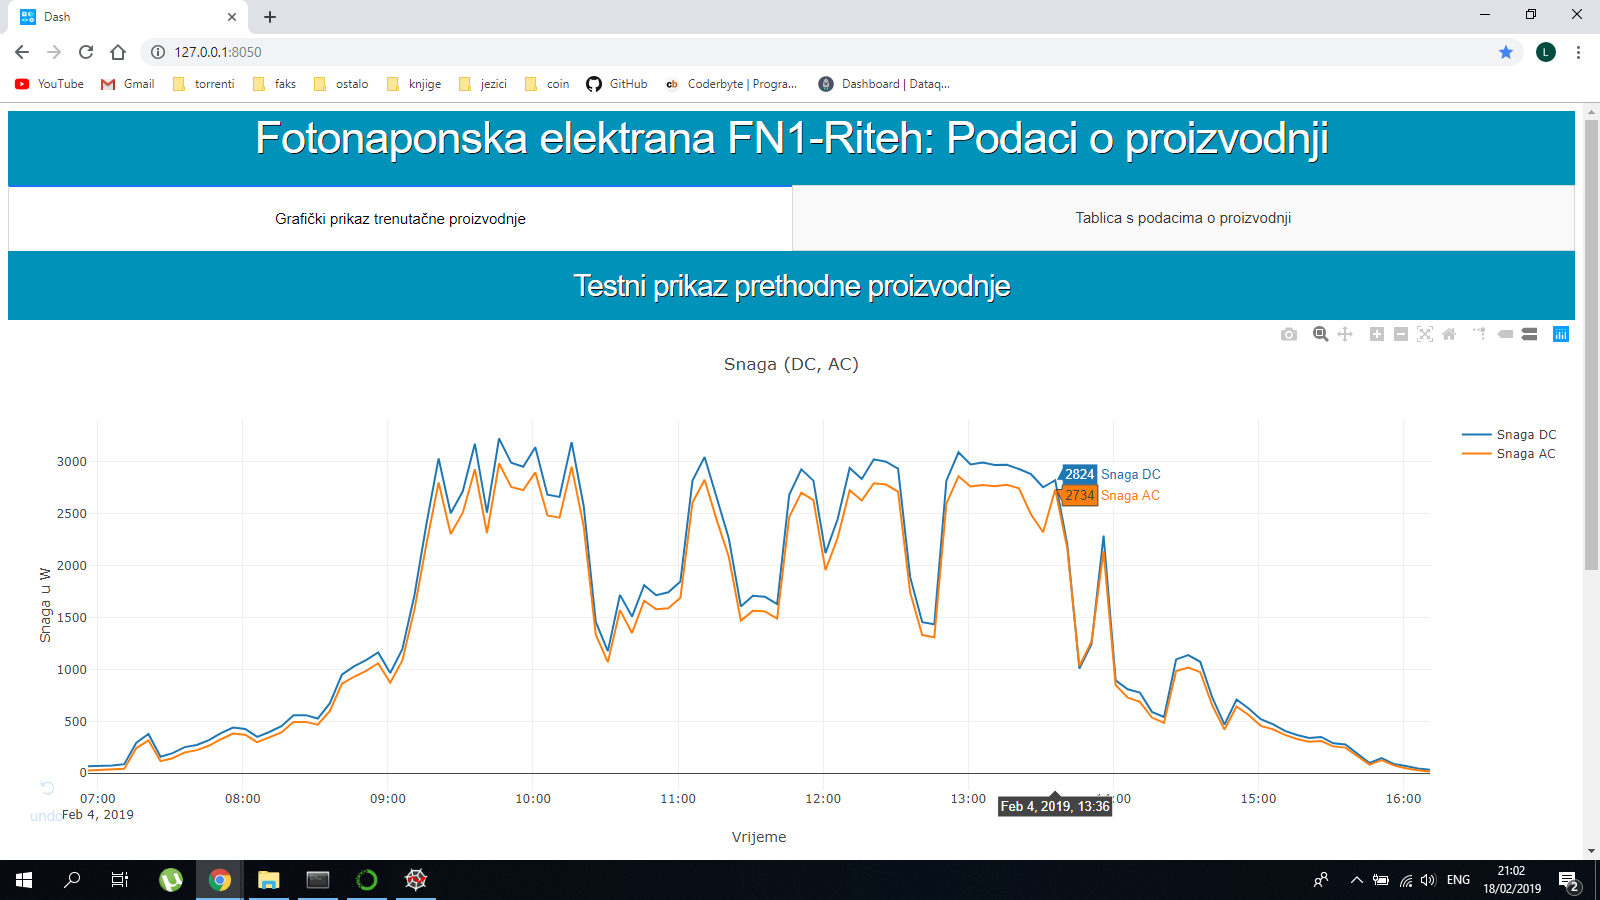
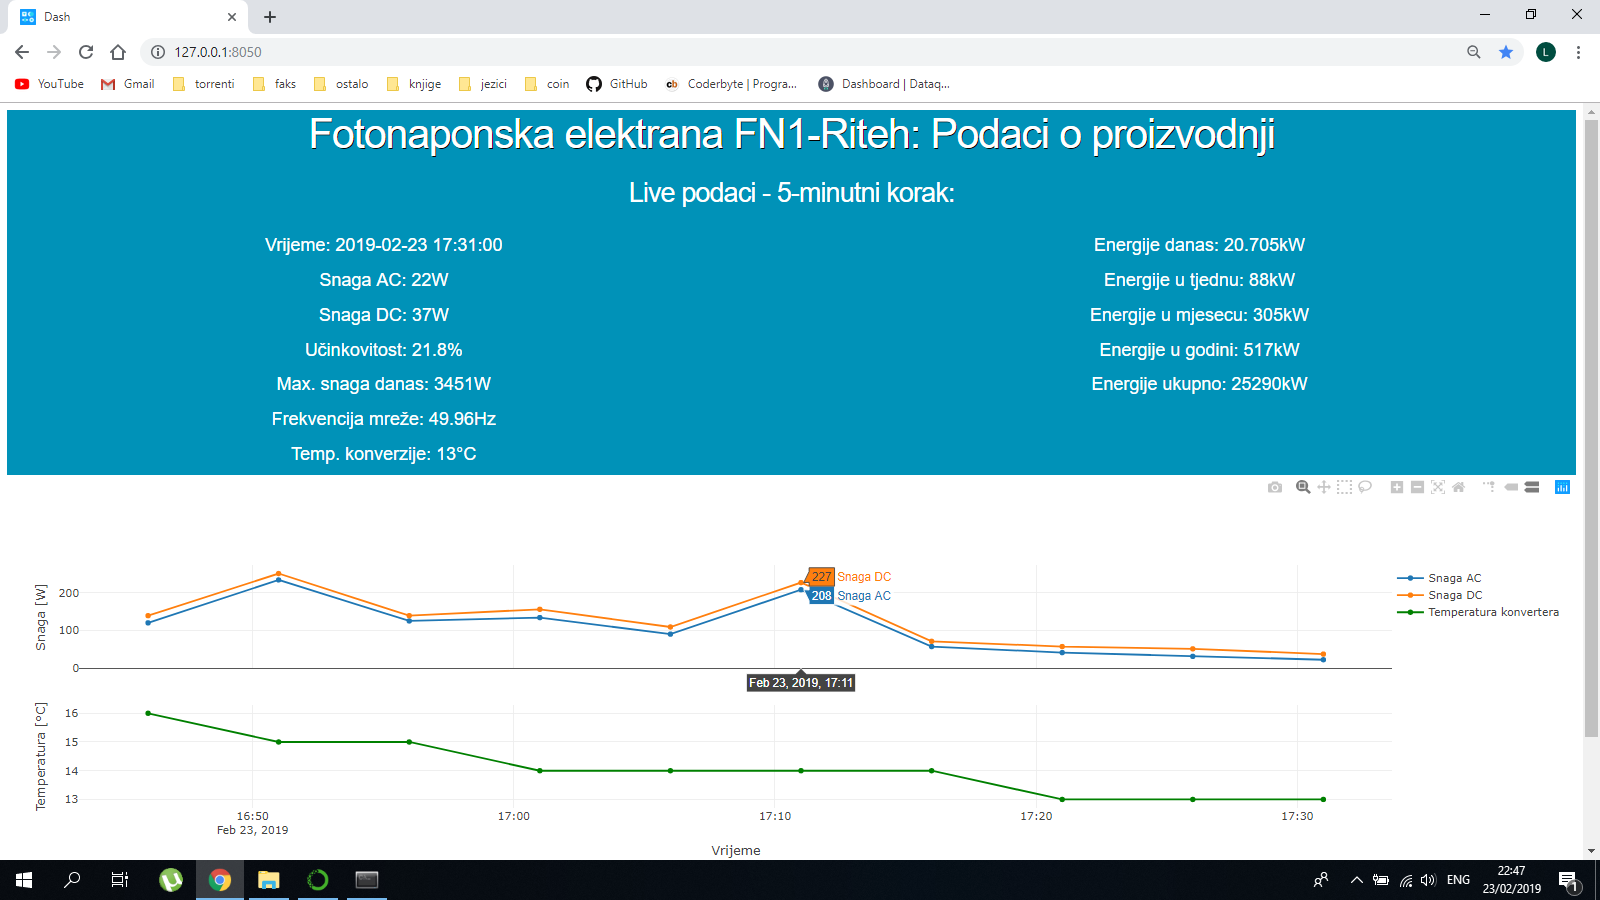
Working (but still in development) version of the app.

diff --git a/app_v1.py b/app_v1.py
@@ -7,6 +7,8 @@ import plotly.graph_objs as go
 import plotly
 import pandas as pd
 import pymysql as mysql
+import time
+from datetime import datetime as dt
 
 external_stylesheets = ['https://codepen.io/chriddyp/pen/bWLwgP.css']
 
@@ -17,26 +19,36 @@ app.layout = html.Div([
                               style={'color': 'rgb(255,255,255)',
                                      'text-align': 'center',
                                      'text-shadow':'1px 1px #000000'}),
+                      html.Div(id='live-update-text'),
+                      dcc.Graph(id='live-update-graph'),
                       dcc.Tabs(id="my-tabs", value='tab-1-example', children=[
                                                                               dcc.Tab(label='Grafički prikaz prethodne proizvodnje', value='tab-1'),
                                                                               dcc.Tab(label='Tablica s podacima o proizvodnji (u doradi)', value='tab-2')
                                                                              ]),
-                      html.Div(id='live-update-text'),
-                      dcc.Graph(id='live-update-graph'),
-                      html.Div(id='tabs-content'), 
+                      dcc.DatePickerRange(
+                                          id='my-date-picker-range',
+                                          min_date_allowed=dt(2019, 1, 1),
+                                          max_date_allowed=dt.now(),
+                                          initial_visible_month=dt(2019, 1, 2),
+                                          start_date='',
+                                          end_date=''
+                                         ),
+                      html.Div(id='tabs-content'),
                       dcc.Interval(id='my-interval', 
-                                   interval=5*1000, 
-                                   n_intervals=0)], style={'background':'rgb(0,146,184)'}
-                      )
-
-conn =  mysql.connect(host='localhost', user='root', password='lozinka', db='riteh1')
-query = "SELECT * FROM elektrana"
-df = pd.read_sql(query, conn)
+                                   interval=300*1000, 
+                                   n_intervals=0)
+                      ], style={'background':'rgb(0,146,184)'})
 
 @app.callback(Output('live-update-text', 'children'),
               [Input('my-interval', 'n_intervals')])
 def update_text(n):
+    t1 = time.time()
+    conn =  mysql.connect(host='localhost', user='root', password='lozinka', db='riteh1')
+    query = "SELECT * FROM elektrana"
+    df = pd.read_sql(query, conn)
     style={'color':'rgb(255,255,255)', 'text-align':'center'}
+    t2 = time.time()
+    print('Vremena za update teksta: {}'.format(t2-t1))
     return html.Div([html.H3('Live podaci - 5-minutni korak:', style=style),
                     html.Div([
                              html.Div([
@@ -59,21 +71,28 @@ def update_text(n):
 @app.callback(Output('live-update-graph', 'figure'),
               [Input('my-interval', 'n_intervals')])
 def update_graph(n):
+    t1 = time.time()
+    conn =  mysql.connect(host='localhost', user='root', password='lozinka', db='riteh1')
+    query = "SELECT * FROM elektrana"
+    df = pd.read_sql(query, conn)
     data = {'Vrijeme':[],
             'Snaga_AC':[],
             'Snaga_DC':[],
-            'Ucinkovitost':[]}
-    for i in range(50):
+            'Temp_kon':[]}
+    for i in range(10):
         vrijeme = df.iloc[-(1+i),0]
         snaga_ac = df.iloc[-(1+i),2]
         snaga_dc = df.iloc[-(1+i),1]
-        ucin = df.iloc[-(1+i),3]
+        ucin = df.iloc[-(1+i),6]
         data['Vrijeme'].append(vrijeme)
         data['Snaga_AC'].append(snaga_ac)
         data['Snaga_DC'].append(snaga_dc)
-        data['Ucinkovitost'].append(ucin)
+        data['Temp_kon'].append(ucin)
     fig = plotly.tools.make_subplots(rows=2, cols=1, shared_xaxes=True)
     fig['layout']['legend'] = {'x': 1, 'y': 1, 'xanchor': 'left'}
+    fig['layout']['xaxis1'].update(title='Vrijeme')
+    fig['layout']['yaxis1'].update(title='Snaga [W]')
+    fig['layout']['yaxis2'].update(title='Temperatura [°C]')
     fig.append_trace({
         'x': data['Vrijeme'],
         'y': data['Snaga_AC'],
@@ -90,17 +109,24 @@ def update_graph(n):
     }, 1, 1)
     fig.append_trace({
         'x': data['Vrijeme'],
-        'y': data['Ucinkovitost'],
-        'name': 'Ucinkovitost',
+        'y': data['Temp_kon'],
+        'name': 'Temperatura konvertera',
         'mode': 'lines+markers',
         'type': 'scatter',
         'marker': {'color':'green'}
     }, 2, 1)
+    t2 = time.time()
+    print('Vremena za update grafa: {}'.format(t2-t1))
     return fig
 
 @app.callback(Output('tabs-content', 'children'),
-              [Input('my-tabs', 'value')])
-def render_content(tab):
+              [Input('my-tabs', 'value'),
+              Input('my-date-picker-range', 'start_date'),
+              Input('my-date-picker-range', 'end_date')])
+def render_content(tab, start_date, end_date):
+    conn =  mysql.connect(host='localhost', user='root', password='lozinka', db='riteh1')
+    query = "SELECT * FROM elektrana WHERE Vrijeme >= '{} 06:00:00' AND Vrijeme <= '{} 20:00:00'".format(start_date, end_date)
+    df = pd.read_sql(query, conn)
     if tab == 'tab-1':
         return html.Div([
                         html.H3('Testni prikaz sveukupne proizvodnje',
@@ -111,21 +137,21 @@ def render_content(tab):
                                  figure=go.Figure(
                                                  data=[
                                                       go.Scatter(
-                                                              x=df['Vrijeme'],
-                                                              y=df['Snaga_DC'],
-                                                              name='Snaga DC',
+                                                                x=df['Vrijeme'],
+                                                                y=df['Snaga_DC'],
+                                                                name='Snaga DC'
                                                                 ),
-                                                              go.Scatter(
-                                                                         x=df['Vrijeme'],
-                                                                         y=df['Snaga_AC'],
-                                                                         name='Snaga AC'
-                                                                         )
+                                                      go.Scatter(
+                                                                x=df['Vrijeme'],
+                                                                y=df['Snaga_AC'],
+                                                                name='Snaga AC'
+                                                                )
                                                       ],
                                                  layout=go.Layout(
                                                                  title='Snaga (DC, AC)',
                                                                  showlegend=True,
                                                                  yaxis=dict(title='Snaga u W'),
-                                                                 xaxis=dict(title='Vrijeme'),
+                                                                 xaxis=dict(title='Vrijeme')
                                                                  )
                                                  ),
                                  style={'height': 550},

diff --git a/primjeri_testovi/date_test.py b/primjeri_testovi/date_test.py
@@ -1,0 +1,11 @@
+# -*- coding: utf-8 -*-
+"""
+Created on Sat Feb 23 12:54:25 2019
+
+@author: zero-
+"""
+
+import datetime
+
+now = datetime.datetime.now().date()
+print(now)

diff --git a/README.md b/README.md
@@ -13,7 +13,8 @@ Currently:
 - added graphical represantation of available data
 - added some styling (background color, text colors, centering)
 - added graphical and textual representation of live data
+- added date picker range for both graph and table data
 
 The next steps in the project:
-- add feature of pulling the data from the db requested by the user (range option)
+- add data download option
 
